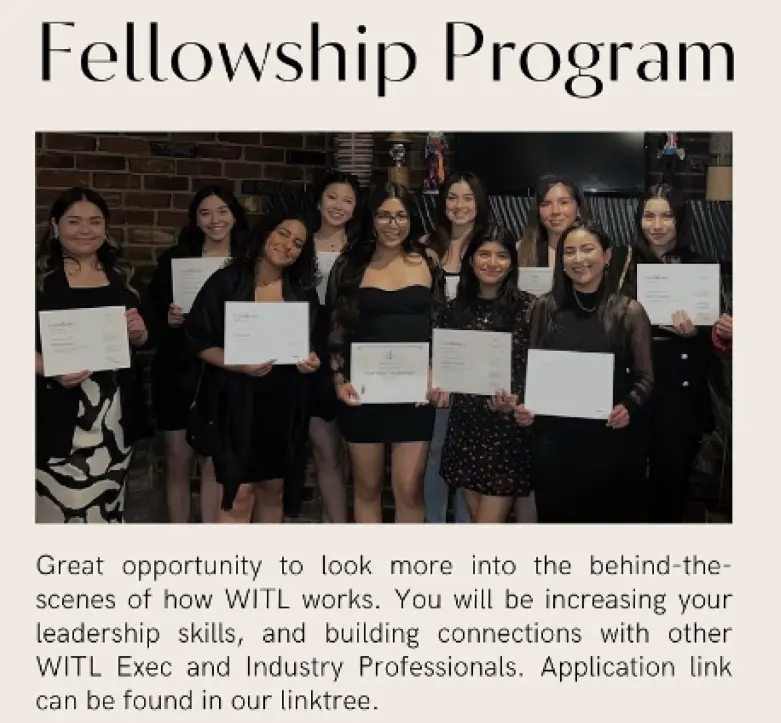
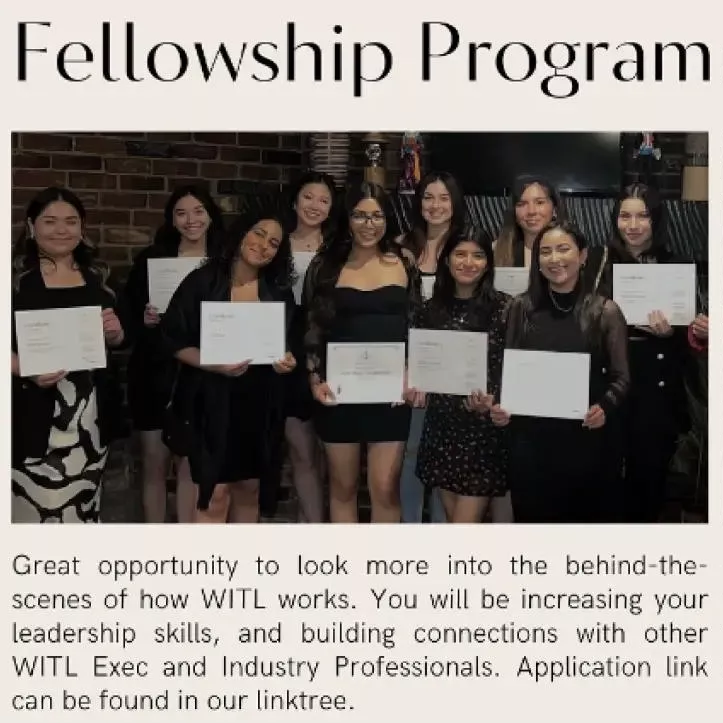
square cropped the images so it fits better

diff --git a/src/components/resources/Resources.jsx b/src/components/resources/Resources.jsx
@@ -21,12 +21,12 @@ const Resources = () => {
           <Image
             src={FellowshipImage}
             alt="fellowship"
-            className="object-contain pl-4"
+            className="object-cover pl-4"
           />
           <Image
             src={NetworkDinner}
             alt="network dinner"
-            className="object-cover p-1"
+            className="object-cover pl-2 pr-[0.4rem]"
           />
           <Image
             src={GroupPhoto}
